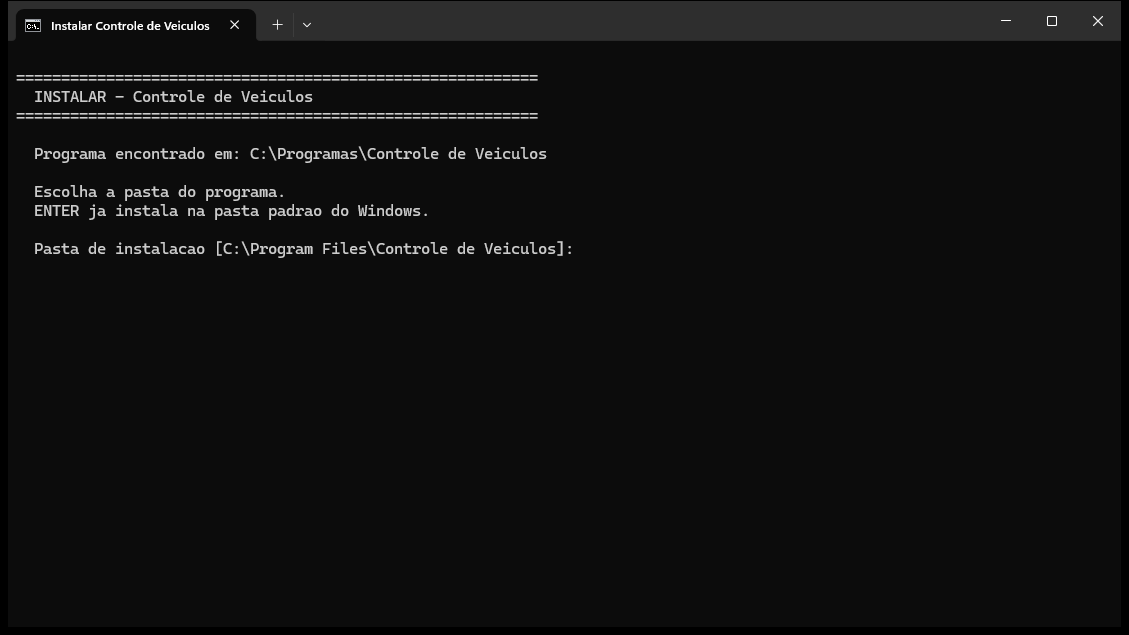
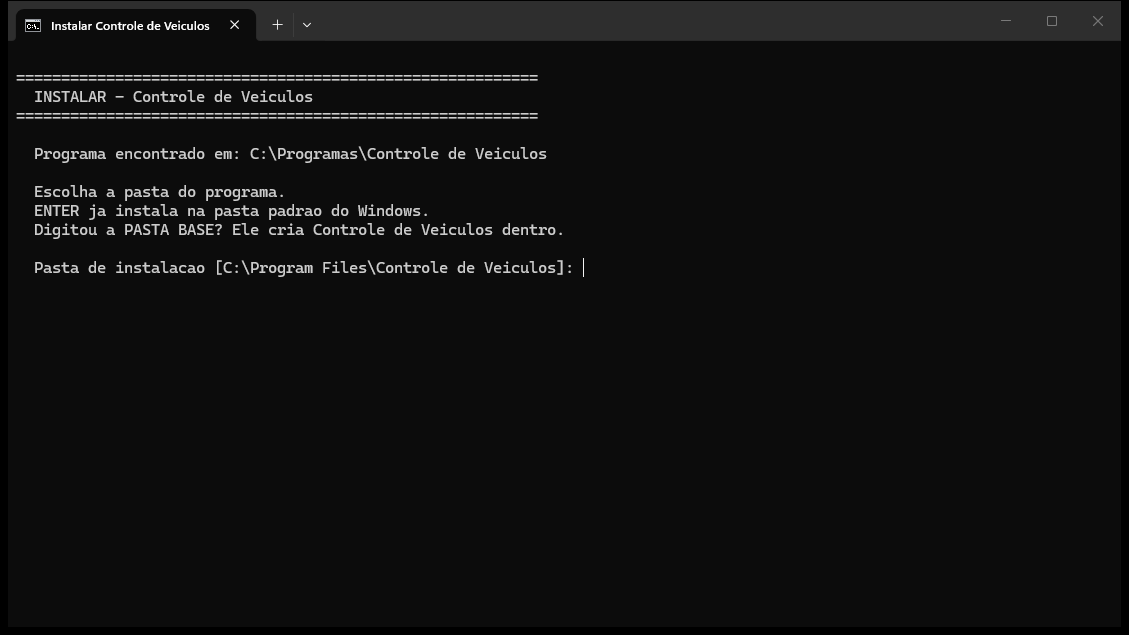
Instalador: pasta base digitada ganha pasta do programa dentro; remocao com lista branca

Changed region(s): [[0.031, 0.3291, 0.527, 0.4488]]

diff --git a/tests/test_smoke.py b/tests/test_smoke.py
@@ -1277,8 +1277,13 @@ def test_web_e_bat():
     for marca in ("PastaBaseWindows", "ENTER ja instala na pasta padrao do Windows",
                   "HKCU:\\Software\\Controle de Veiculos", "InstallDir",
                   "Remover-VersaoAntiga", "RunAs",
-                  "Documentos\\ControleVeiculos"):
+                  "Documentos\\ControleVeiculos",
+                  "Digitou a PASTA BASE",
+                  '$ultima -ine "Controle de Veiculos"',
+                  '"README.txt", "INSTALAR-COMO-USAR.txt"'):
         check(marca in ps1, f"instalador tem {marca}")
+    check('.Extension -eq ".md"' not in ps1,
+          "remoção da versão antiga com lista branca (nunca *.md/*.txt soltos)")
     comando = ("$t = Get-Content -LiteralPath $env:INSTALAR_PS1 -Raw; "
                "[void][scriptblock]::Create($t)")
     proc = subprocess.run(

diff --git a/README.md b/README.md
@@ -35,9 +35,10 @@ a página "latest" sempre aponta para a versão mais nova.
 ## Como abrir
 
 - **Pelo instalador (recomendado):** dois cliques em **`Instalar.bat`**, **Enter** na
-  pasta sugerida (`C:\Program Files\Controle de Veiculos`; quem sabe o que faz pode
-  digitar outra) e **Sim** no pedido do Windows — ele remove uma versão anterior,
-  se houver, e cria o atalho **Controle de Veículos** na Área de Trabalho.
+  pasta sugerida (`C:\Program Files\Controle de Veiculos`; pode digitar outra — é a
+  **pasta base**, ele cria `Controle de Veiculos` dentro dela) e **Sim** no pedido do
+  Windows — ele remove uma versão anterior, se houver, e cria o atalho
+  **Controle de Veículos** na Área de Trabalho.
 - **Direto:** dois cliques no atalho da Área de Trabalho ou em
   `dist\Controle de Veículos.exe` (arquivo único de ~12 MB, funciona em qualquer
   Windows 10/11 **sem instalar nada**; também roda de um pendrive).

diff --git a/INSTALAR-COMO-USAR.md b/INSTALAR-COMO-USAR.md
@@ -71,8 +71,10 @@ Pasta de instalacao [C:\Program Files\Controle de Veiculos]:
 ```
 
 - **Quer instalar no lugar certo?** Nem digite nada: é só **apertar Enter**.
-- Avançado e quer outra pasta? Digite o caminho (ex.: `D:\Programas\Veiculos`)
-  e **aperte Enter**.
+- Quer outra pasta? Digite a **pasta base** (ex.: `D:\Documentos`) e aperte
+  **Enter** — o instalador ele mesmo cria a pasta `Controle de Veiculos`
+  dentro dela e instala tudo lá. O caminho final aparece na linha
+  **Destino:** antes de começar (ex.: `D:\Documentos\Controle de Veiculos`).
 - Se **já existe uma versão instalada**, o instalador mostra o endereço dela e a
   **remove antes** de copiar a nova — a pasta com os seus dados nunca é apagada.
 - Depois do Enter o Windows pode perguntar *"Deseja permitir que este app faça
